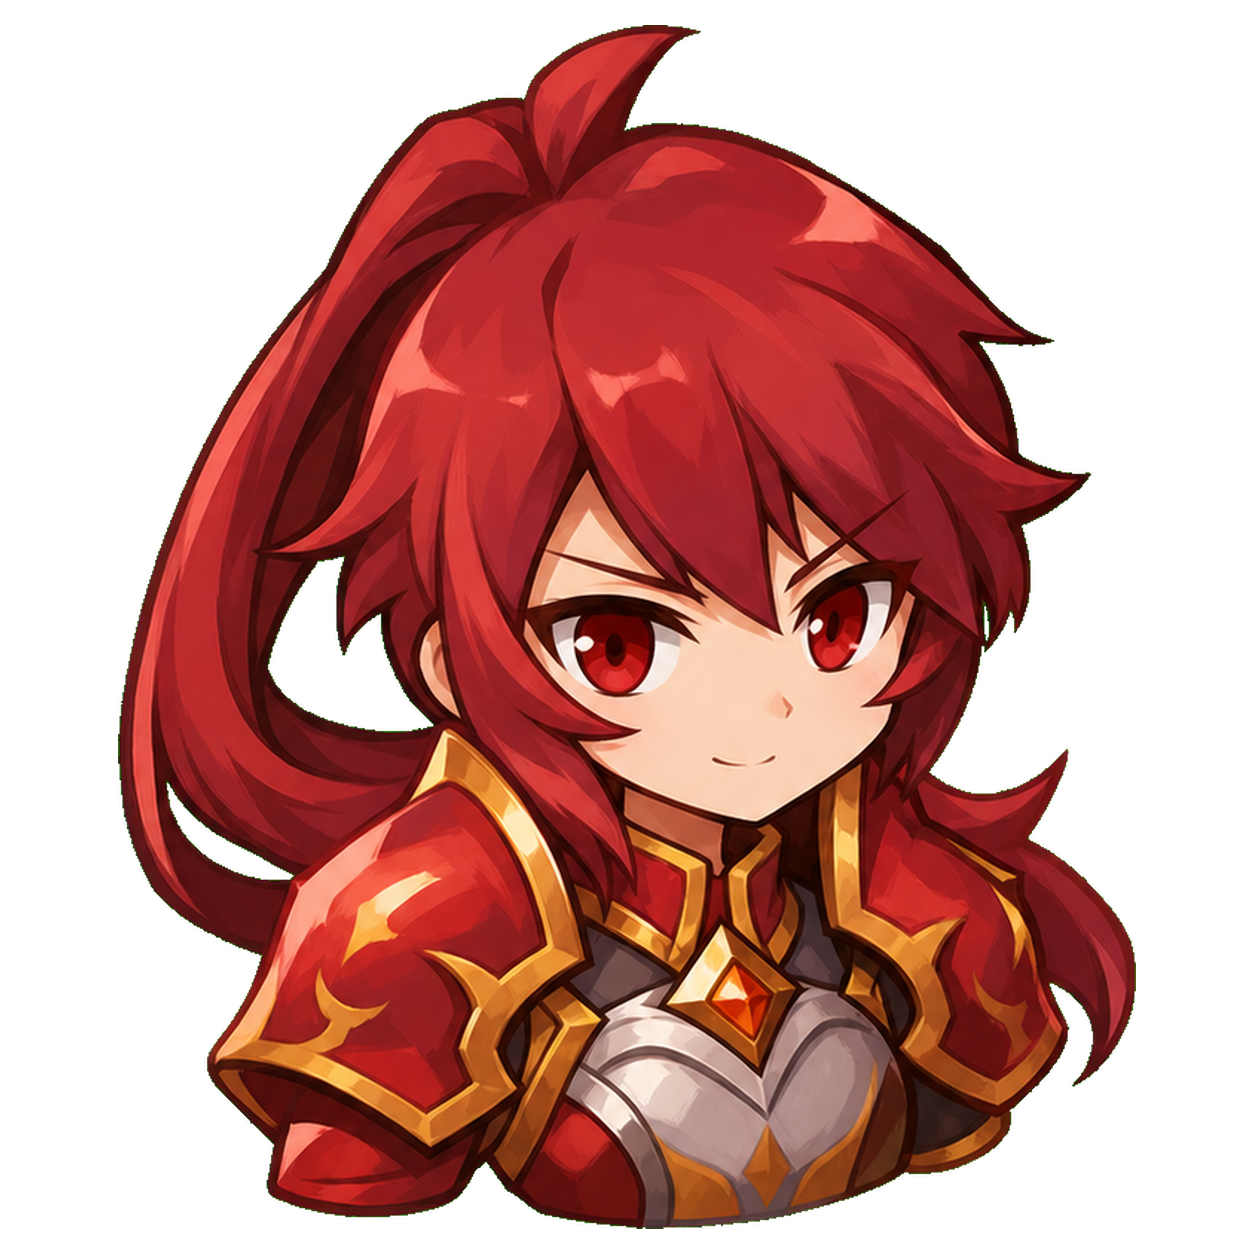
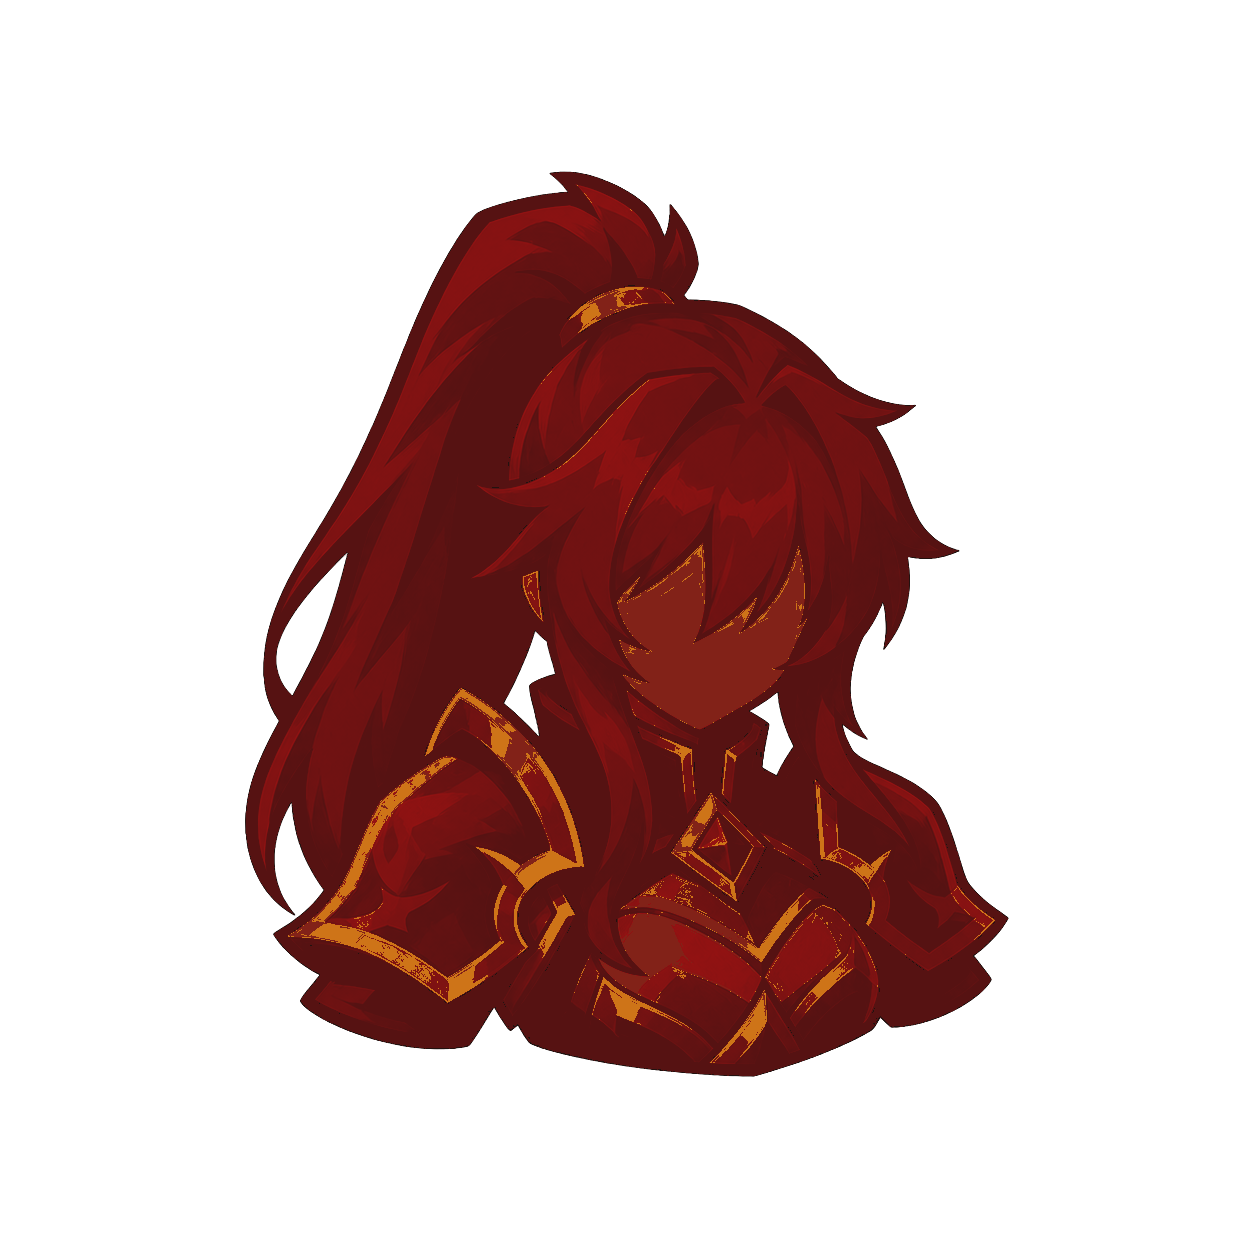
Prepare Elesis v0.4.9

diff --git a/ElesisCode/Character/Elesis.cs b/ElesisCode/Character/Elesis.cs
@@ -6,6 +6,7 @@ using Elesis.ElesisCode.Extensions;
 using Elesis.ElesisCode.Relics;
 using Godot;
 using MegaCrit.Sts2.Core.Entities.Characters;
+using MegaCrit.Sts2.Core.Helpers;
 using MegaCrit.Sts2.Core.Models;
 using MegaCrit.Sts2.Core.Models.Cards;
 using MegaCrit.Sts2.Core.Models.Relics;
@@ -30,10 +31,10 @@ public class Elesis : CustomCharacterModel
     public override string CustomDeathSfx => "event:/sfx/characters/ironclad/ironclad_die";
     public override string CustomCharacterSelectTransitionPath => "res://materials/transitions/ironclad_transition_mat.tres";
     public override string CustomVisualPath => $"{MainFile.ResPath}/scenes/creature_visuals/elesis_combat.tscn";
-    public override string CustomMerchantAnimPath => $"{MainFile.ResPath}/scenes/merchant/elesis_shop.tscn";
+    public override string CustomMerchantAnimPath => SceneHelper.GetScenePath("merchant/characters/ironclad_merchant");
     public override string CustomRestSiteAnimPath => $"{MainFile.ResPath}/scenes/rest_site/elesis_rest.tscn";
     public override string CustomTrailPath => "res://scenes/vfx/card_trail_ironclad.tscn";
-    public override string CustomEnergyCounterPath => "res://scenes/combat/energy_counters/ironclad_energy_counter.tscn";
+    public override string CustomEnergyCounterPath => $"{MainFile.ResPath}/scenes/combat/elesis_energy_counter.tscn";
 
     public override IEnumerable<CardModel> StartingDeck => [
         ModelDb.Card<ElesisStrike>(),

diff --git a/docs/ARCHITECTURE.md b/docs/ARCHITECTURE.md
@@ -7,9 +7,9 @@
 - `Elesis/`: Godot resources, localization, and runtime assets included in the `.pck`.
 - `ElesisCode/`: C# mod code.
 - `ElesisCode/MainFile.cs`: mod initializer; registers the custom Elesis character with BaseLib.
-- `ElesisCode/Character/Elesis.cs`: custom character model. Elesis intentionally extends `CustomCharacterModel`, matching the working Hologirl mod pattern; `PlaceholderCharacterModel` retained vanilla fallback icon behavior and made character selection unreliable. Elesis uses generated static scenes for combat, merchant, and rest-site visuals, with Ironclad fallbacks retained for audio, transition, trail, and energy-counter assets until custom STS2-safe replacements exist.
+- `ElesisCode/Character/Elesis.cs`: custom character model. Elesis intentionally extends `CustomCharacterModel`, matching the working Hologirl mod pattern; `PlaceholderCharacterModel` retained vanilla fallback icon behavior and made character selection unreliable. Elesis uses generated static scenes for combat and rest-site visuals, with Ironclad fallbacks retained for audio, transition, trail, and merchant animation until custom STS2-safe replacements exist.
 - `ElesisCode/Cards/ElesisKeywords.cs`: custom BaseLib `CardKeyword` definitions used to show hover-tip boxes for Elesis mechanics on card hover.
-- `Elesis/scenes/creature_visuals/`, `Elesis/scenes/merchant/`, and `Elesis/scenes/rest_site/`: static scenes used by BaseLib's character scene conversion hooks. Combat visuals must provide a `Visuals` child plus combat anchor nodes so BaseLib can convert the scene to `NCreatureVisuals`. The merchant scene keeps a neutral `Node2D` root and a minimal `AnimationPlayer` so BaseLib's merchant animation patch handles animation calls without falling back to vanilla Spine playback.
+- `Elesis/scenes/creature_visuals/`, `Elesis/scenes/combat/`, and `Elesis/scenes/rest_site/`: static scenes used by BaseLib's character scene conversion hooks. Combat visuals must provide a `Visuals` child plus combat anchor nodes so BaseLib can convert the scene to `NCreatureVisuals`. The custom energy counter scene supplies Elesis' large energy orb while BaseLib generates the required label and particle containers.
 - `ElesisCode/Relics/BelderKnightEmblem.cs`: starter relic used so character selection and run start have an Elesis-owned relic model to display and equip.
 - `scripts/`: build, package, and release helpers.
 

diff --git a/docs/design/GAMEPLAY_IDENTITY.md b/docs/design/GAMEPLAY_IDENTITY.md
@@ -4,5 +4,6 @@ Use this file for the character's confirmed mechanical identity, archetypes, and
 
 - Elesis uses Chivalry as her primary combat rhythm. Vitality cards build Chivalry, Destruction cards can spend 5 Chivalry for bonus damage or Block, and Vitality thresholds can spend 5 Chivalry to draw.
 - Flame is a secondary burst counter with a dedicated visible power icon. Flame cards build Flame; non-Flame Attacks consume stored Flame as bonus damage.
+- Card descriptions color Flame with the gold/fire highlight and Destruction with a red highlight to separate the mechanics visually.
 - Belder Knight Emblem is Elesis' starter relic. It gives 2 Chivalry at the start of each combat, giving her an early rhythm without immediately triggering the 5-Chivalry threshold.
 - Starting deck uses `QuickStep` and `ClaymoreArc` as the two non-basic common cards so a new run can build Chivalry and immediately see a Destruction spend pattern.

diff --git a/docs/DESIGN.md b/docs/DESIGN.md
@@ -11,5 +11,6 @@ Confirmed design direction:
 - Character selection uses a Belder/Velder fortress backdrop with Elesis shown from head to mid-thigh, while the clickable selector icon stays focused on her head and shoulders.
 - The starter relic visual is the Belder Knight Emblem: a red-and-gold knight crest with a claymore motif, matching her red knight identity.
 - Energy UI uses a red crystal-and-gold knight orb. Chivalry uses a red-gold sword crest power icon, and Flame uses a sharper red-orange sword-flame crest icon.
+- Map marker art should stay minimal: Elesis should read as a bust/head silhouette rather than a detailed portrait.
 
 Do not treat generated art attempts as final until one is explicitly selected as the project asset.

diff --git a/docs/releases/v0.4.9.md b/docs/releases/v0.4.9.md
@@ -1,0 +1,9 @@
+# Elesis v0.4.9
+
+Character UI and shop stability update.
+
+- Replaced the map marker with a simpler bust/head silhouette for better readability.
+- Updated the character select icon with a cleaner, wider background.
+- Added the Elesis energy icon to the main combat energy counter.
+- Colored card keywords: Flame uses a fire-like gold color and Destruction uses red.
+- Temporarily restored the merchant animation to the Ironclad fallback to avoid the black screen when entering the shop.
